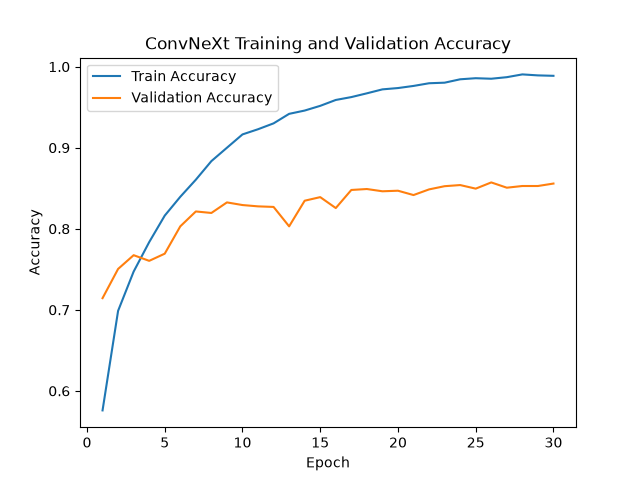
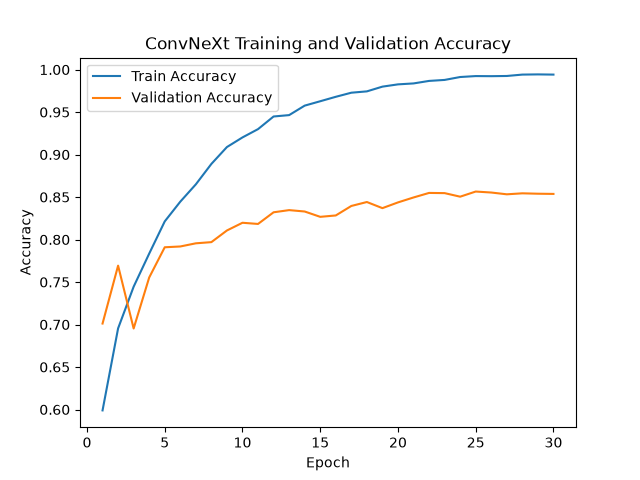
augmented the training data more

diff --git a/recognition/ConvNeXt_s48897453/dataset.py b/recognition/ConvNeXt_s48897453/dataset.py
@@ -83,8 +83,16 @@ train_samples, val_samples, train_patients, val_patients = build_patient_split(D
 
 test_samples = load_test_samples(TEST_DIR)
 
-train_transform = transforms.Compose([transforms.Resize((224, 224)), transforms.RandomRotation(5), transforms.RandomAffine(degrees=0, translate=(0.02, 0.02)), transforms.ToTensor()])
-
+train_transform = transforms.Compose([
+    transforms.Resize((224, 224)),
+    transforms.RandomResizedCrop(224, scale=(0.75, 1.0), ratio=(0.9, 1.1)),
+    transforms.RandomRotation(10),
+    transforms.RandomHorizontalFlip(),
+    transforms.ColorJitter(brightness=0.3, contrast=0.3),
+    transforms.ToTensor(),
+    transforms.Normalize(mean=[0.5], std=[0.5]),   # use the same in val/test
+    transforms.RandomErasing(p=0.25),
+])
 val_transform = transforms.Compose([transforms.Resize((224, 224)), transforms.ToTensor()])
 
 test_transform = transforms.Compose([transforms.Resize((224, 224)), transforms.ToTensor()])
